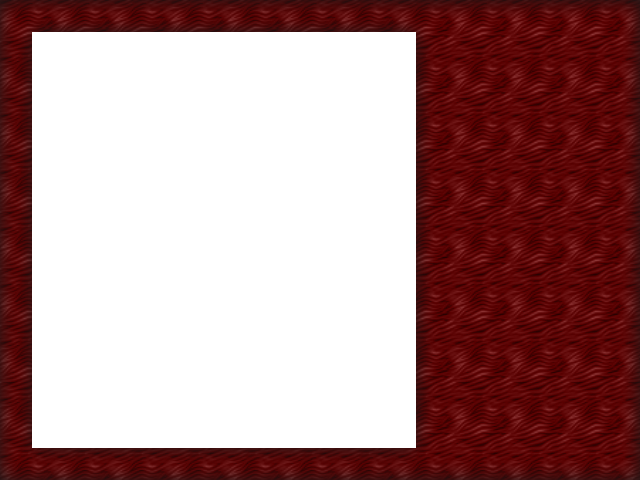
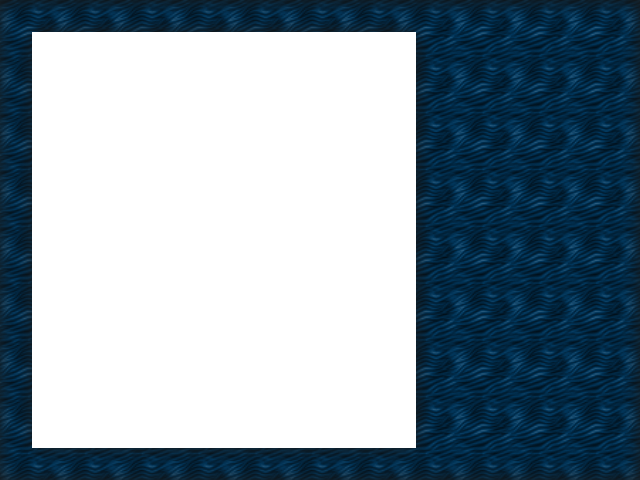
feat: fix diagonal movement, normalize movement

diff --git a/AntouhaProject/Game/GameStructures.h b/AntouhaProject/Game/GameStructures.h
@@ -1,6 +1,7 @@
 #pragma once
 
 #include "../Framework/FrameworkH.h"
+#include <cmath>
 
 struct LevelResources {
 	Ant::Texture* Background;
@@ -32,8 +33,21 @@ struct Player {
 		if (input->isKeyPressed(ANT_LSHIFT)) { speed = 225; }
 		if (input->isKeyReleased(ANT_LSHIFT)) { speed = 350; }
 
-		pos += Ant::Vec2f((input->isKeyDown(ANT_RIGHT) + (-input->isKeyDown(ANT_LEFT))) * dt * speed, 0);
-		pos += Ant::Vec2f(0, (input->isKeyDown(ANT_DOWN) + (-input->isKeyDown(ANT_UP))) * dt * speed);
+		bool up = input->isKeyDown(ANT_UP);
+		bool down = input->isKeyDown(ANT_DOWN);
+		bool left = input->isKeyDown(ANT_LEFT);
+		bool right = input->isKeyDown(ANT_RIGHT);
+
+		float dx = right - left;
+		float dy = down - up;
+
+		if (dx != 0.0f && dy != 0.0f) {
+			float len = sqrt(dx * dx + dy * dy);
+			dx /= len;
+			dy /= len;
+		}
+
+		pos += Ant::Vec2f(dx*speed*dt,dy*speed*dt);
 
 		if (pos.x > 416) { pos.x = 416; }
 		if (pos.x < 32) { pos.x = 32; }
